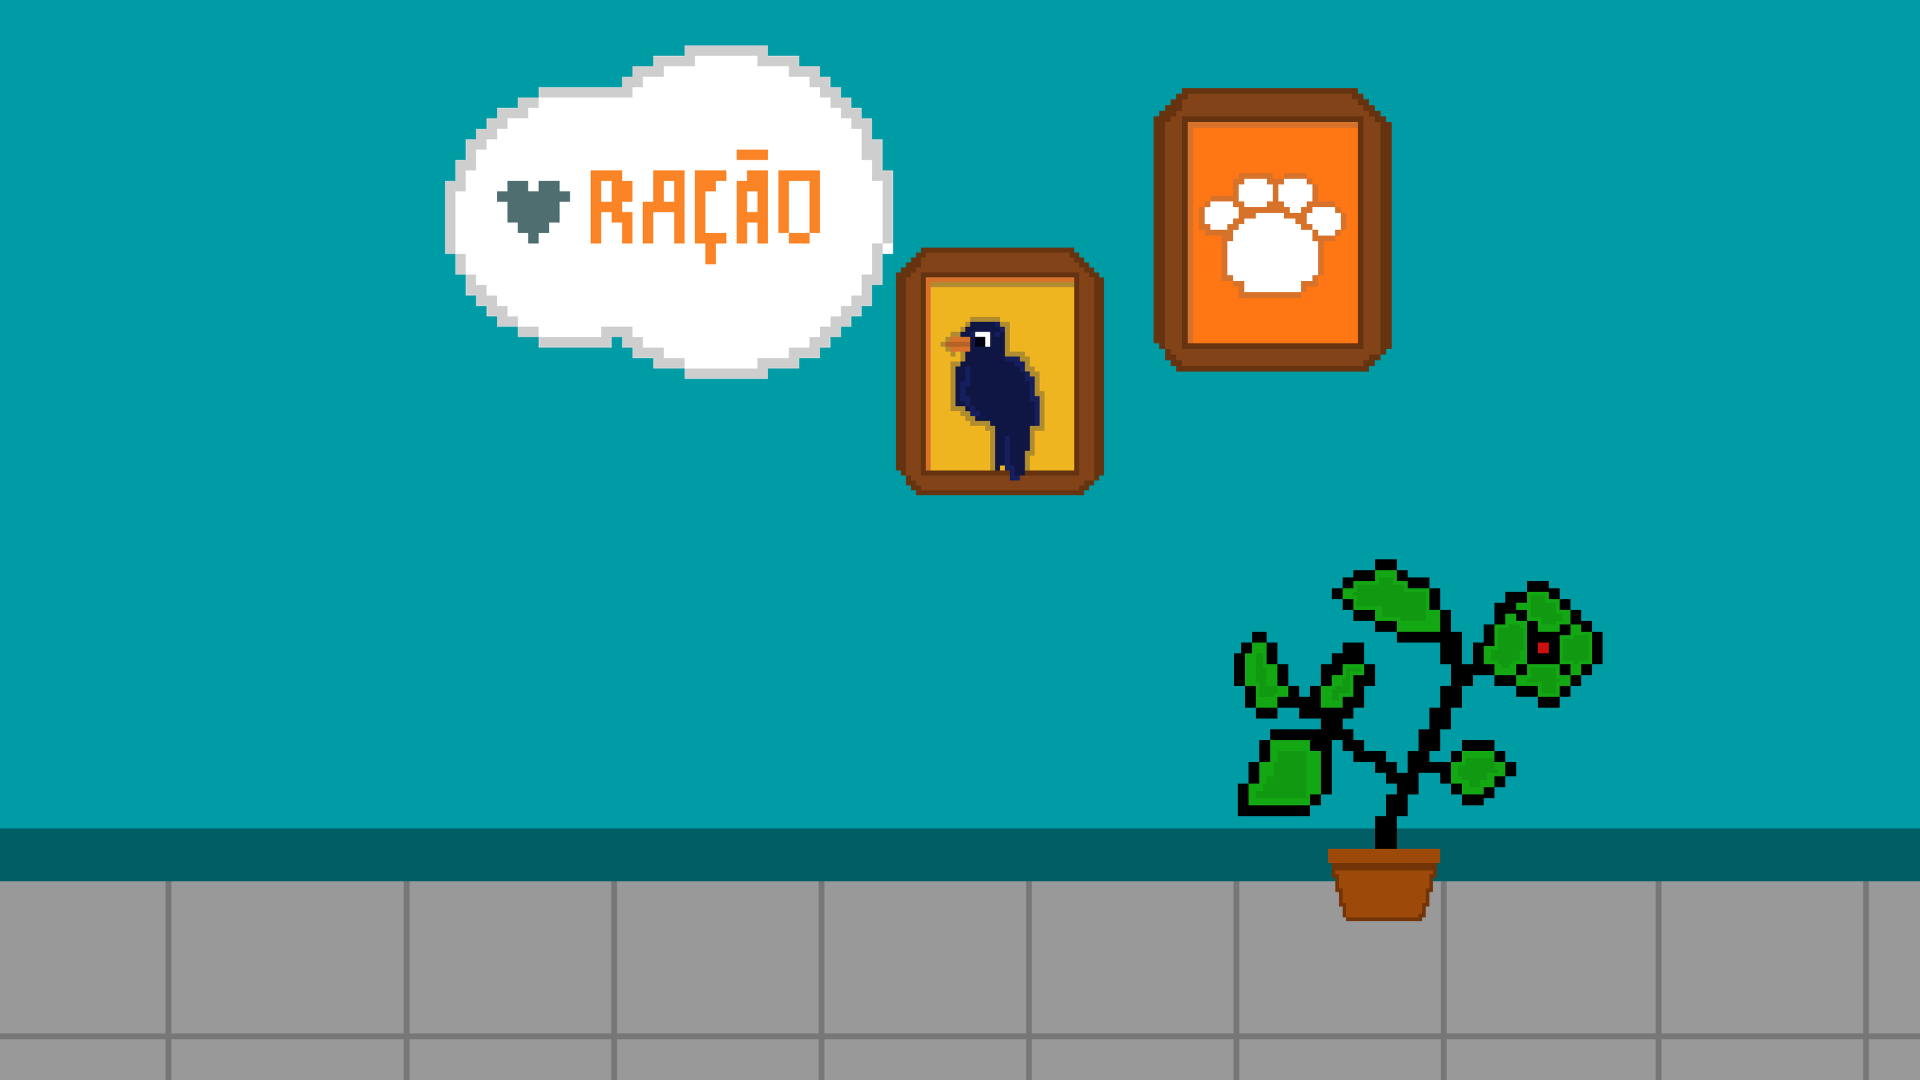
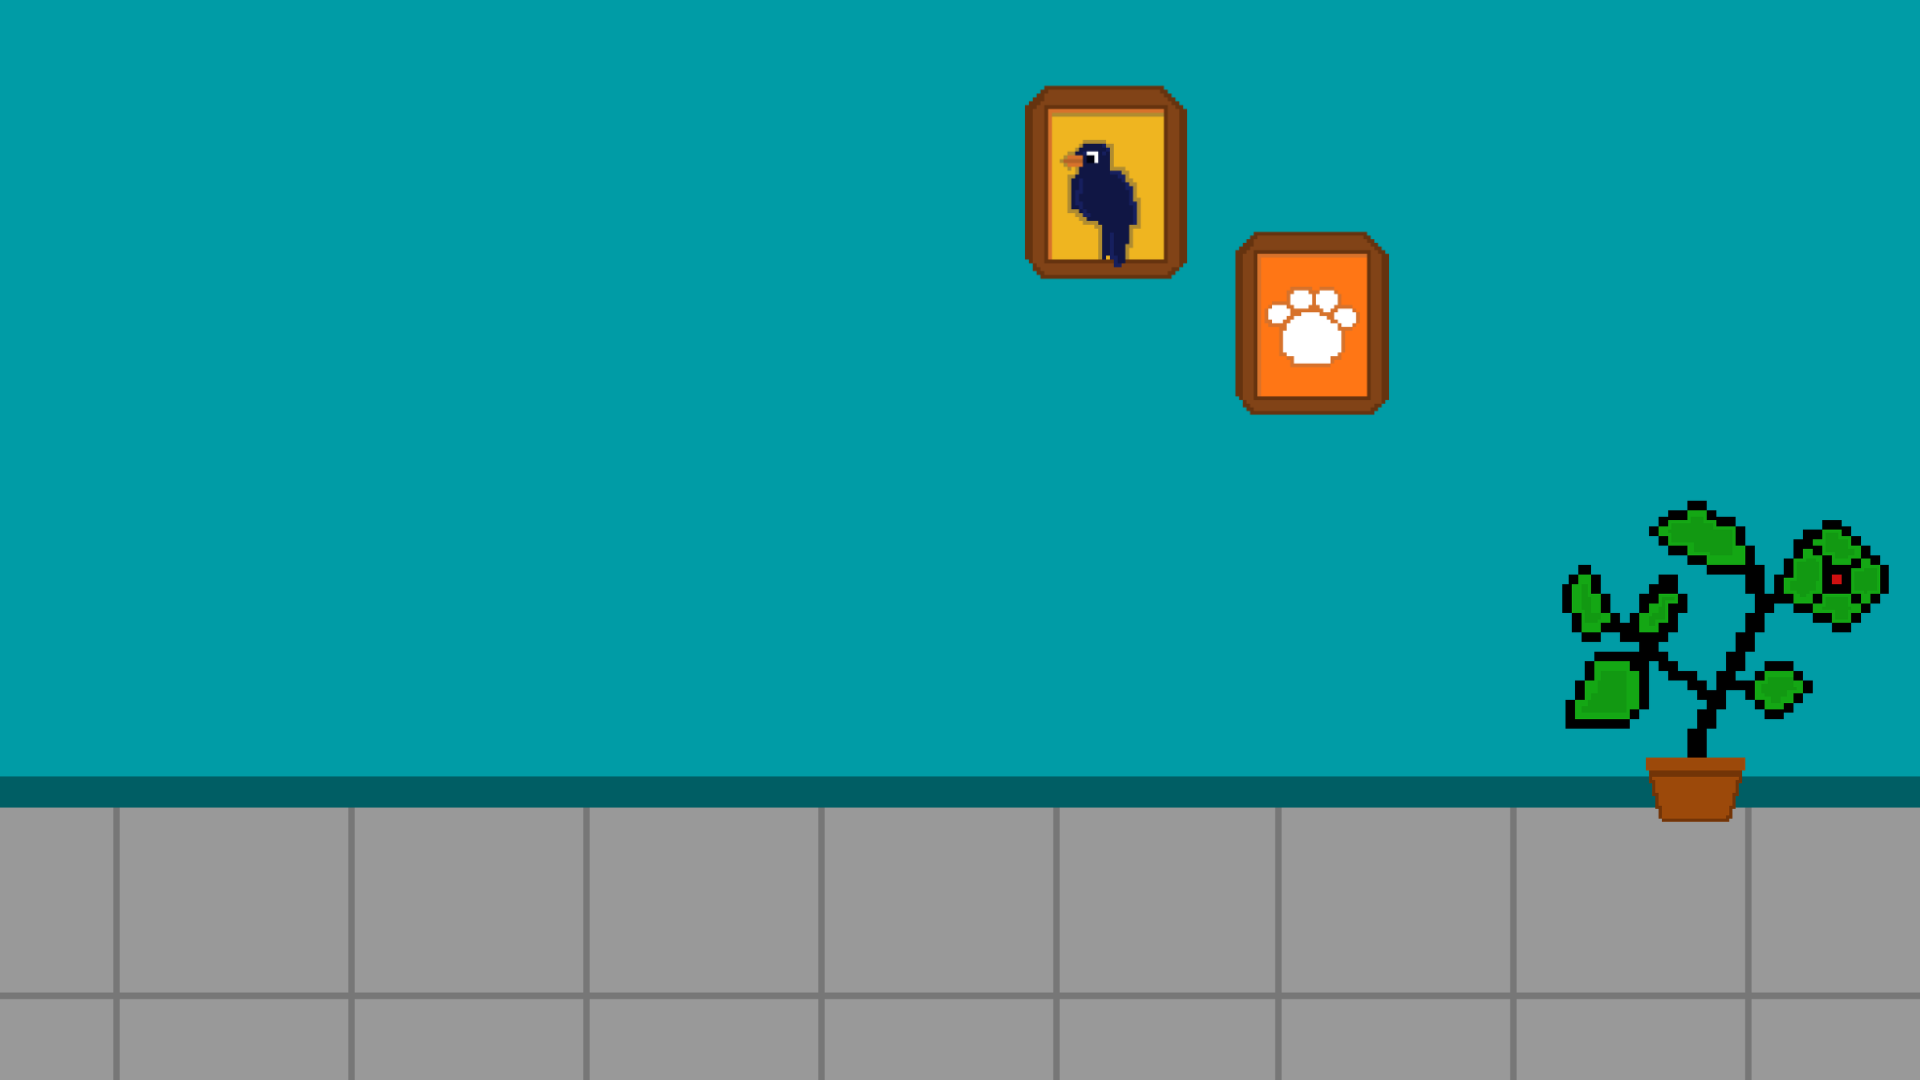
Reajuste da responsividade

Changed region(s): [[0.0, 0.4583, 1.0, 1.0], [0.2188, 0.0306, 0.75, 0.4583]]

diff --git a/public/src/Cenas/cenaComida.js b/public/src/Cenas/cenaComida.js
@@ -1,33 +1,33 @@
 // Importa a classe Cachorro, responsável pela animação e controle do cachorro
 import { Cachorro } from "../componentes/controleCachorro/cachorroAnimacao.js";
 
-// Define a cena "cenaComida"
 export class cenaComida extends Phaser.Scene {
     
     constructor() {
         super({ key: "cenaComida" });
-        this.transicao = false; // Flag para evitar múltiplas transições de cena
+        this.transicao = false;
     }
 
     create() {
-        this.transicao = false; // Reseta flag de transição
+        this.transicao = false;
 
-        // Garante que a cena HUD esteja ativa
+        // HUD
         if (!this.scene.isActive("cenaHUD")) {
             this.scene.launch("cenaHUD");
         } else if (this.scene.isSleeping("cenaHUD")) {
             this.scene.wake("cenaHUD");
         }
         this.scene.bringToTop("cenaHUD");
-        const posicaoX = (this.scale.width-this.scale.width*0.2)
-        const posicaoY = this.scale.height
 
-        // Pré-carrega texturas da ração para evitar travamentos
+        const posicaoX = (this.scale.width - this.scale.width * 0.2);
+        const posicaoY = this.scale.height;
+
         this.preCarregarTexturasRacao();
 
-        // Função auxiliar para aplicar efeitos visuais ao passar o mouse e clicar
+        // Função auxiliar para hover/click dinâmico
         const passarPressionarEfeito = (alvo, escalaNormal, escalaPassar) => {
-            // Aumenta escala ao passar o mouse
+            alvo.removeAllListeners();
+
             alvo.on("pointerover", () => {
                 this.tweens.add({
                     targets: alvo,
@@ -38,18 +38,16 @@ export class cenaComida extends Phaser.Scene {
                 });
             });
 
-            // Reduz escala ao clicar (efeito de pressão)
             alvo.on("pointerdown", () => {
                 this.tweens.add({
                     targets: alvo,
                     scaleX: escalaNormal * 0.9,
                     scaleY: escalaNormal * 0.9,
                     duration: 150,
-                    yoyo: true // volta ao tamanho original
+                    yoyo: true
                 });
             });
 
-            // Retorna à escala normal ao sair com o mouse
             alvo.on("pointerout", () => {
                 this.tweens.add({
                     targets: alvo,
@@ -61,68 +59,87 @@ export class cenaComida extends Phaser.Scene {
             });
         };
 
-        // Fundo da cena (imagem da cozinha/ração)
-        this.add
-            .image(posicao, this.scale.height / 2, "bgRacao")
-            .setDisplaySize(this.scale.width-this.scale.width*0.2, this.scale.height)
+        // Fundo
+        this.fundo = this.add.image(posicaoX / 2, posicaoY / 2, "bgRacao")
+            .setDisplaySize(posicaoX, posicaoY)
             .setDepth(-1);
 
-        // Estante de ração interativa
-        const estante = this.add.image(posicao-(posicao*2)*0.3, this.scale.height/2+this.scale.height*0.2, "estanteRacao").setScale(posicao*0.1).setInteractive({ useHandCursor: true });
-        passarPressionarEfeito(estante, 0.5, 0.6);
+        // Estante
+        const estante = this.add.image(posicaoX * 0.2, posicaoY / 2 + posicaoY * 0.14, "estanteRacao")
+            .setScale(posicaoY * 0.0007)
+            .setInteractive({ useHandCursor: true });
+        passarPressionarEfeito(estante, estante.scaleX, estante.scaleX * 1.1);
 
-        // Evento de clique na estante → transição para minijogo da ração
         estante.on("pointerdown", () => {
-            if (this.transicao) {
-                return; // Evita múltiplos cliques
-            }
-
-            this.transicao = true;
-            this.cameras.main.fadeOut(100, 0, 0, 0); // Faz fade out da tela
+            this.cameras.main.fadeOut(100, 0, 0, 0);
             this.cameras.main.once("camerafadeoutcomplete", () => {
-                this.scene.start("jogoRacao"); // Inicia cena do minijogo
+                this.scene.start("jogoRacao");
             });
         });
 
-        // Ícone de pote de ração vazio
-        this.add.image((posicao)+posicao*0.1,this.scale.height/2+this.scale.height*0.4, "racaoVazia").setScale((this.scale.width - this.scale.width * 0.2) * 0.00018).setDepth(100);
+        // Pote vazio
+        const racaoVazia = this.add.image((posicaoX / 2) + (posicaoX / 2) * 0.1, posicaoY / 2 + posicaoY * 0.4, "racaoVazia")
+            .setScale(posicaoY * 0.00002)
+            .setDepth(100);
 
-        // Instancia o cachorro na cena
-        this.cachorro = new Cachorro(this, (posicao)+posicao*0.5,this.scale.height/2+this.scale.height*0.2);
-        this.cachorro.sprite.setScale((this.scale.width - this.scale.width * 0.2) * 0.0005);
+        // Cachorro
+        this.cachorro = new Cachorro(this, (posicaoX / 2) + (posicaoX / 2) * 0.4, (posicaoY / 2) + (posicaoY / 2) * 0.25);
+        this.cachorro.sprite.setScale(posicaoY * 0.0007);
 
+        // Bilhete
+        const bilhete = this.add.image((posicaoX / 2) + (posicaoX / 2) * 0.7, posicaoY / 2 - posicaoY * 0.3, "mineFicha")
+            .setScale(posicaoY*0.0001)
+            .setInteractive({ useHandCursor: true });
+        passarPressionarEfeito(bilhete, bilhete.scaleX, bilhete.scaleX * 1.3);
 
-        // Bilhete interativo (abre ficha informativa)
-        const bilhete = this.add.image(posicao+posicao*0.7,this.scale.height/2-this.scale.height*0.3, "mineFicha").setScale(0.1).setInteractive({ useHandCursor: true });
-        passarPressionarEfeito(bilhete, 0.1, 0.13);
-
-        // Evento de clique no bilhete → abre/fecha ficha
         bilhete.on("pointerdown", () => {
             if (this.scene.isActive("ficha")) {
-                this.scene.stop("ficha"); // Fecha ficha se já estiver aberta
+                this.scene.stop("ficha");
                 return;
             }
-
-            this.scene.launch("ficha"); // Abre ficha
-            this.scene.bringToTop("Ficha"); // Garante que fique visível
+            this.scene.launch("ficha");
+            this.scene.bringToTop("ficha");
             this.scene.bringToTop("cenaHUD");
         });
 
-        // Evento ao encerrar a cena → fecha ficha se estiver aberta
         this.events.once(Phaser.Scenes.Events.SHUTDOWN, () => {
             if (this.scene.isActive("ficha")) {
                 this.scene.stop("ficha");
             }
         });
+
+        // >>> Listener de resize ajustado <<<
+        this.scale.on("resize", (tamanhoTela) => {
+            const { width: largura, height: altura } = tamanhoTela;
+            const posicaoX = largura - largura * 0.2;
+            const posicaoY = altura;
+
+            // Fundo
+            this.fundo.setDisplaySize(posicaoX, altura).setPosition(posicaoX / 2, altura / 2);
+
+            // Estante
+            estante.setPosition(posicaoX * 0.2, altura / 2 + altura * 0.14);
+            estante.setScale(posicaoY * 0.0007);
+            passarPressionarEfeito(estante, estante.scaleX, estante.scaleX * 1.1);
+
+            // Pote vazio
+            racaoVazia.setPosition((posicaoX / 2) + (posicaoX / 2) * 0.1, altura / 2 + altura * 0.4);
+            racaoVazia.setScale(posicaoY * 0.00002);
+
+            // Cachorro
+            this.cachorro.sprite.setPosition((posicaoX / 2) + (posicaoX / 2) * 0.4, (posicaoY / 2) + (posicaoY / 2) * 0.25);
+            this.cachorro.sprite.setScale(posicaoY * 0.0007);
+
+            // Bilhete
+            bilhete.setPosition((posicaoX / 2) + (posicaoX / 2) * 0.7, altura / 2 - altura * 0.3);
+            bilhete.setScale(posicaoY*0.0001);
+            passarPressionarEfeito(bilhete, bilhete.scaleX, bilhete.scaleX * 1.3);
+        });
     }
 
-    // Pré-carrega texturas da ração para evitar travamentos
     preCarregarTexturasRacao() {
-        if (this.registry.get("texturas_racao_precarregadas")) {
-            return; // Se já foi pré-carregado, não faz nada
-        }
+        if (this.registry.get("texturas_racao_precarregadas")) return;
 
-        // Lista de texturas que serão pré-carregadas
         const chavesPreCarregadas = [
             "bgLimpo", "estanteVazia", "botaoVoltar",
             "racaoGA", "racaoGF", "racaoGV",
@@ -130,12 +147,10 @@ export class cenaComida extends Phaser.Scene {
             "racaoPA", "racaoPF", "racaoPV"
         ];
 
-        // Cria sprites invisíveis para forçar carregamento
         const spritesPreCarregados = chavesPreCarregadas.map((chave, indice) =>
             this.add.image(2 + indice, 2, chave).setScale(0.001).setAlpha(0.001).setDepth(-9999)
         );
 
-        // Após pequeno delay, destrói sprites e marca como pré-carregado
         this.time.delayedCall(50, () => {
             spritesPreCarregados.forEach((sprite) => sprite.destroy());
             this.registry.set("texturas_racao_precarregadas", true);

diff --git a/public/src/componentes/cenaHUD.js b/public/src/componentes/cenaHUD.js
@@ -33,20 +33,20 @@ export class cenaHUD extends Phaser.Scene {
             .setScale(this.scale.height*0.0013);
 
         // Ícones e barras de status
-        this.iconeFome = this.add.image(this.scale.width*0.05, this.scale.height*0.1, "iconeFome").setScale(this.scale.height*0.002);
-        this.barraComida = new Barra(this, this.scale.width*0.15, this.scale.height*0.1, gameState.barras.comida);
+        this.iconeFome = this.add.image(this.scale.width*0.05, this.scale.height*0.08, "iconeFome").setScale(this.scale.height*0.002);
+        this.barraComida = new Barra(this, this.scale.width*0.15, this.scale.height*0.08, gameState.barras.comida);
         this.barraComida.sprite.setScale(this.scale.height*0.002);
 
-        this.iconeFelicidade = this.add.image(this.scale.width*0.05, this.scale.height*0.2, "iconeFelicidade").setScale(this.scale.height*0.002);
-        this.barraLazer = new Barra(this, this.scale.width*0.15, this.scale.height*0.2, gameState.barras.lazer);
+        this.iconeFelicidade = this.add.image(this.scale.width*0.05, this.scale.height*0.16, "iconeFelicidade").setScale(this.scale.height*0.002);
+        this.barraLazer = new Barra(this, this.scale.width*0.15, this.scale.height*0.16, gameState.barras.lazer);
         this.barraLazer.sprite.setScale(this.scale.height*0.002);
 
-        this.iconeSujeira = this.add.image(this.scale.width*0.05, this.scale.height*0.3, "iconeSujeira").setScale(this.scale.height*0.002);
-        this.barraLimpeza = new Barra(this, this.scale.width*0.15, this.scale.height*0.3, gameState.barras.limpeza);
+        this.iconeSujeira = this.add.image(this.scale.width*0.05, this.scale.height*0.24, "iconeSujeira").setScale(this.scale.height*0.002);
+        this.barraLimpeza = new Barra(this, this.scale.width*0.15, this.scale.height*0.24, gameState.barras.limpeza);
         this.barraLimpeza.sprite.setScale(this.scale.height*0.002);
 
-        this.iconeSaude = this.add.image(this.scale.width*0.05, this.scale.height*0.4, "iconeSaude").setScale(this.scale.height*0.002);
-        this.barraSaude = new Barra(this, this.scale.width*0.15, this.scale.height*0.4, gameState.barras.saude);
+        this.iconeSaude = this.add.image(this.scale.width*0.05, this.scale.height*0.32, "iconeSaude").setScale(this.scale.height*0.002);
+        this.barraSaude = new Barra(this, this.scale.width*0.15, this.scale.height*0.32, gameState.barras.saude);
         this.barraSaude.sprite.setScale(this.scale.height*0.002);
 
         // Fundo do painel lateral
@@ -100,32 +100,34 @@ export class cenaHUD extends Phaser.Scene {
             const painelX = largura - larguraPainel / 2;
             const centroY = altura / 2;
 
+            // Painel lateral
             this.painel.setSize(larguraPainel, altura).setPosition(painelX, centroY);
 
-            // Atualiza botões
+            // Botões (mantendo proporções verticais)
             this.botoes[0].botao.setPosition(painelX, altura * 0.2).setScale(altura * 0.001);
             this.botoes[1].botao.setPosition(painelX, altura * 0.4).setScale(altura * 0.001);
             this.botoes[2].botao.setPosition(painelX, altura * 0.6).setScale(altura * 0.001);
             this.botoes[3].botao.setPosition(painelX, altura * 0.8).setScale(altura * 0.001);
             this.botoes[4].botao.setPosition(painelX, altura * 0.95).setScale(altura * 0.001);
 
-            // Atualiza moedas
-            this.coinIcon.setPosition(largura - largura*0.1, altura * 0.05).setScale(altura * 0.0008);
-            this.coinText.setPosition(largura - largura*0.09, altura * 0.05).setScale(altura*0.0013);
+            // Moedas
+            this.coinIcon.setPosition(largura - largura * 0.1, altura * 0.05).setScale(altura * 0.0008);
+            this.coinText.setPosition(largura - largura * 0.09, altura * 0.045).setScale(altura * 0.0013);
 
-            // Atualiza ícones e barras
-            this.iconeFome.setPosition(largura * 0.05, altura * 0.1).setScale(altura * 0.002);
-            this.barraComida.sprite.setPosition(largura * 0.15, altura * 0.1).setScale(altura * 0.002);
+            // Ícones e barras (ajustados para espaçamento proporcional)
+            this.iconeFome.setPosition(largura * 0.05, altura * 0.08).setScale(altura * 0.002);
+            this.barraComida.sprite.setPosition(largura * 0.15, altura * 0.08).setScale(altura * 0.002);
 
-            this.iconeFelicidade.setPosition(largura * 0.05, altura * 0.2).setScale(altura * 0.002);
-            this.barraLazer.sprite.setPosition(largura * 0.15, altura * 0.2).setScale(altura * 0.002);
+            this.iconeFelicidade.setPosition(largura * 0.05, altura * 0.16).setScale(altura * 0.002);
+            this.barraLazer.sprite.setPosition(largura * 0.15, altura * 0.16).setScale(altura * 0.002);
 
-            this.iconeSujeira.setPosition(largura * 0.05, altura * 0.3).setScale(altura * 0.002);
-            this.barraLimpeza.sprite.setPosition(largura * 0.15, altura * 0.3).setScale(altura * 0.002);
+            this.iconeSujeira.setPosition(largura * 0.05, altura * 0.24).setScale(altura * 0.002);
+            this.barraLimpeza.sprite.setPosition(largura * 0.15, altura * 0.24).setScale(altura * 0.002);
 
-            this.iconeSaude.setPosition(largura * 0.05, altura * 0.4).setScale(altura * 0.002);
-            this.barraSaude.sprite.setPosition(largura * 0.15, altura * 0.4).setScale(altura * 0.002);
+            this.iconeSaude.setPosition(largura * 0.05, altura * 0.32).setScale(altura * 0.002);
+            this.barraSaude.sprite.setPosition(largura * 0.15, altura * 0.32).setScale(altura * 0.002);
         });
+
     }
 
     // Função de transição de cenas com fade e parada da música

diff --git a/public/src/Cenas/jogoLazer.js b/public/src/Cenas/jogoLazer.js
@@ -27,23 +27,27 @@ export class jogoLazer extends Phaser.Scene {
             gameState.musica.play();
         }
 
+        const posicaoX = this.scale.width - this.scale.width * 0.2;
+        const posicaoY = this.scale.height;
+
         // Fundo
-        this.fundo = this.add.image(this.scale.width / 2, this.scale.height / 2, "bgBanheiro")
-            .setDisplaySize(this.scale.width, this.scale.height);
+        this.fundo = this.add.image(posicaoX / 2, posicaoY / 2, "bgLazer")
+            .setDisplaySize(posicaoX, posicaoY);
 
         // Cachorro
-        this.cachorro = new Cachorro(this, 920, 600);
+        this.cachorro = new Cachorro(this, posicaoX / 2, (posicaoY / 2)+(posicaoY / 2)*0.25);
         this.physics.add.existing(this.cachorro.sprite);
+        this.cachorro.sprite.setScale(posicaoY*0.0006)
         this.cachorro.sprite.body.setAllowGravity(false);
         this.cachorro.sprite.body.immovable = true;
 
         // Bola
-        this.objeto = this.physics.add.image(200, 500, "bolaLaranja")
-            .setScale(0.2)
+        this.objeto = this.physics.add.image(posicaoX*0.1, ((posicaoY / 2)+(posicaoY / 2)*0.25), "bolaLaranja")
+            .setScale(posicaoY*0.0002)
             .setCollideWorldBounds(false);
 
         this.objeto.body.setAllowGravity(false);
-        this.posicaoInicial = { x: 200, y: 500 };
+        this.posicaoInicial = { x: posicaoX*0.1, y: ((posicaoY / 2)+(posicaoY / 2)*0.25) };
 
         this.acertos = 0;
         this.trajetoria = this.add.graphics();
@@ -77,23 +81,32 @@ export class jogoLazer extends Phaser.Scene {
             this.teleportarCachorro();
         });
 
-        // >>> Listener de resize <<<
-        this.scale.on("resize", (gameSize) => {
-            const largura = gameSize.width;
-            const altura = gameSize.height;
+        // >>> Listener de resize<<<
+        this.scale.on("resize", (tamanhoTela) => {
+            const { width: largura, height: altura } = tamanhoTela;
 
-            this.cameras.resize(largura, altura);
+            // Atualiza posição inicial da bola
+            this.posicaoInicial = { 
+                x: largura * 0.1, 
+                y: (altura / 2) + (altura / 2) * 0.25 
+            };
 
-            // Fundo
-            this.fundo.setDisplaySize(largura, altura).setPosition(largura / 2, altura / 2);
+            // Atualiza fundo
+            this.fundo
+            .setDisplaySize(largura - largura * 0.2, altura)
+            .setPosition((largura - largura * 0.2) / 2, altura / 2);
 
-            // Cachorro reposicionado proporcionalmente
-            this.cachorro.sprite.setPosition(largura * 0.7, altura * 0.8);
+            // Atualiza bola
+            this.objeto.setPosition(this.posicaoInicial.x, this.posicaoInicial.y).setScale(posicaoY*0.0002);
 
-            // Bola volta para posição inicial relativa
-            this.posicaoInicial = { x: largura * 0.2, y: altura * 0.8 };
-            this.resetarObjeto();
+            // Atualiza cachorro (usando sprite!)
+            this.cachorro.sprite.setPosition(
+                (largura - largura * 0.2) / 2, 
+                (altura / 2) + (altura / 2) * 0.25
+            );
+            this.cachorro.sprite.setScale(altura * 0.0006);
         });
+
     }
 
     update() {

diff --git a/public/src/Cenas/cenaCarregamento.js b/public/src/Cenas/cenaCarregamento.js
@@ -8,7 +8,8 @@ export class cenaCarregamento extends Phaser.Scene {
     preload() {
         // Tela Inicial
         this.load.image("bgInicial", "assets/tela-inicial/bgInicial.png"); // Fundo da tela inicial
-        this.load.image("bgPrincipal", "assets/bgPrincipal.png");         // Fundo principal
+        this.load.image("bgPrincipal", "assets/tela-principal/bgPrincipal.png");         // Fundo principal
+        this.load.image("bgLazer", "assets/bgLazer.png")
         // Botões da tela inicial em diferentes estados (normal, crescendo, pressionado)
         this.load.image("botaoJogarNormal", "assets/tela-inicial/botaoJogarNormal.png");
         this.load.image("botaoJogarCrescendo", "assets/tela-inicial/botaoJogarCrescendo.png");

diff --git a/public/src/Cenas/jogoRacao.js b/public/src/Cenas/jogoRacao.js
@@ -36,11 +36,12 @@ export class jogoRacao extends Phaser.Scene {
                 this.tweens.add({ targets: target, scaleX: scaleNormal, scaleY: scaleNormal, duration: 200 });
             });
         };
-        const posicao = (this.scale.width - this.scale.width * 0.2) / 2;
+        const posicaoX = this.scale.width - this.scale.width * 0.2;
+        const posicaoY = this.scale.height;
 
         // Fundo
-        this.fundo = this.add.image(posicao, this.scale.height / 2, "bgLimpo")
-            .setDisplaySize(posicao, this.scale.height)
+        this.fundo = this.add.image(posicaoX/2, this.scale.height / 2, "bgLimpo")
+            .setDisplaySize(posicaoX, this.scale.height)
             .setDepth(-1);
 
         // Botão voltar

diff --git a/public/src/Cenas/cenaPrincipal.js b/public/src/Cenas/cenaPrincipal.js
@@ -27,7 +27,7 @@ export class cenaPrincipal extends Phaser.Scene {
 
         // Fundo da cena principal (responsivo)
         this.bg = this.add
-            .image(posicaoX/2, posicaoY/2, "bgHUD")
+            .image(posicaoX/2, posicaoY/2, "bgPrincipal")
             .setDisplaySize(posicaoX, posicaoY)
             .setDepth(-1);
 
@@ -36,8 +36,6 @@ export class cenaPrincipal extends Phaser.Scene {
 
             // Ajusta câmera
             this.bg.setDisplaySize((largura - largura * 0.2), altura).setPosition((largura - largura * 0.2)/2, altura / 2);
-
-
 
         });
         // Configuração da câmera
